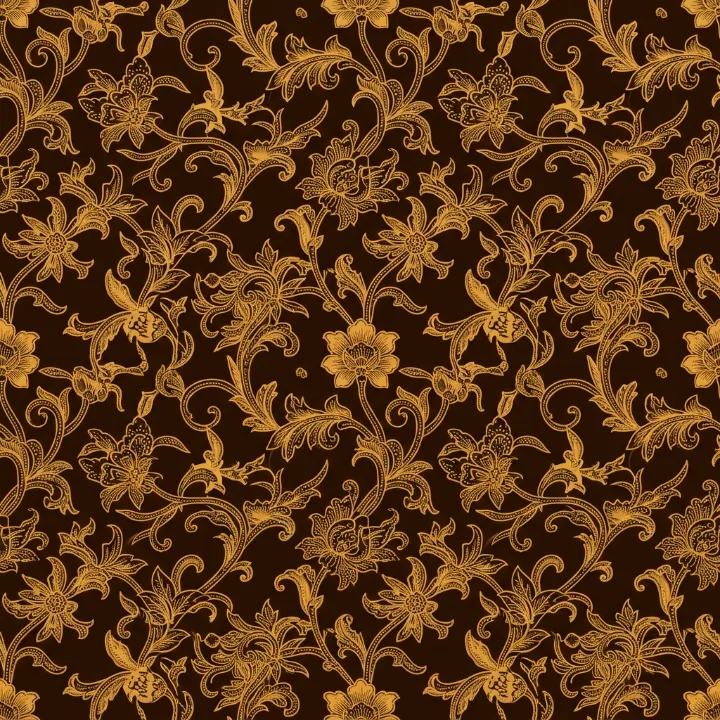
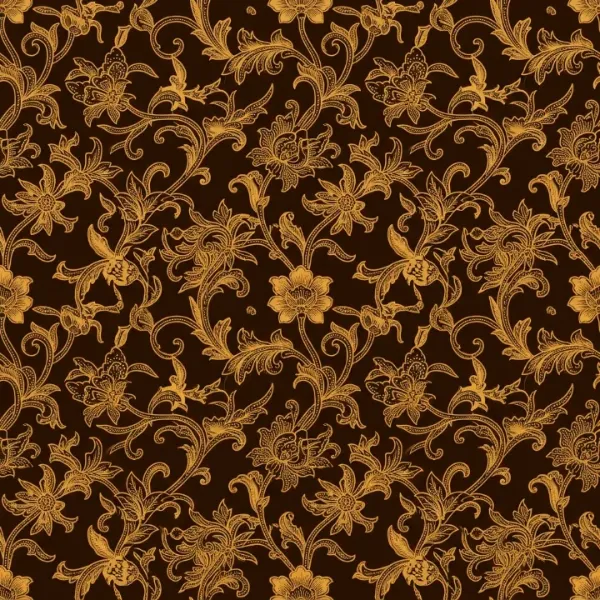
Audit sederhana: tekstur zon krim, potret hangat, borang kertas, imej dimampatkan
- Zon krim 1 diberi tekstur garis Batik krim yang samar
- Potret: tona hangat seragam dengan krim + bingkai gerbang emas berganda
- Borang ucapan dalam bingkai gading, medan bergaris bawah emas, label serif
- Imej dimampatkan (626KB -> 308KB); potret kini WebP

diff --git a/styles.css b/styles.css
@@ -2063,3 +2063,73 @@ body::after {
 .band-footer .footer-meta,
 .band-batik-doa .editorial-label { text-shadow: 0 1px 10px rgba(0, 0, 0, 0.7); }
 .footer-inner { padding-top: 26px; }
+
+/* =====================================================================
+   PENAMBAHBAIKAN AUDIT (IMPAK SEDERHANA)
+   ===================================================================== */
+
+/* 7. Zon krim 1: tekstur garis Batik krim (Aset 5) yang lebih samar daripada zon Ucapan,
+      supaya ruang antara kad tidak terasa kosong tanpa bersaing dengan bingkai gading. */
+.wb-zone-soft {
+  background-image:
+    linear-gradient(180deg, #F7F3EB 0%, rgba(247, 243, 235, 0.8) 10%, rgba(247, 243, 235, 0.76) 50%, rgba(247, 243, 235, 0.8) 90%, #F7F3EB 100%),
+    url('assets/texture-batik-cream.webp');
+}
+
+/* 8. Potret: tona hangat seragam dengan krim + bingkai gerbang emas berganda */
+.couple-portrait-img { filter: sepia(0.2) saturate(0.88) contrast(1.03) brightness(1.01); }
+.couple-mihrab-inner { background: #F3E7D5; }
+.couple-mihrab-inner::after {
+  background:
+    linear-gradient(180deg, rgba(243, 231, 213, 0) 70%, rgba(243, 231, 213, 0.35) 100%),
+    rgba(232, 205, 160, 0.12);
+  mix-blend-mode: multiply;
+}
+.couple-mihrab-arch {
+  border: 1px solid var(--antique-gold);
+  background: linear-gradient(160deg, #FBF5EA 0%, #F3E7D5 100%);
+  box-shadow:
+    0 0 0 4px #F7F3EB,
+    0 0 0 5px rgba(200, 157, 84, 0.65),
+    0 22px 44px rgba(42, 29, 21, 0.18);
+}
+
+/* 9. Borang ucapan bergaya kertas: bingkai gading, medan bergaris bawah emas, label serif */
+.paper-form {
+  position: relative;
+  padding: 28% 11% 24%;   /* label & butang jauh dari ornamen sudut */
+  border: 0;
+}
+.paper-form::before,
+.paper-form::after { display: none; }
+.paper-form .field label {
+  font-family: var(--font-serif);
+  font-size: 0.8rem;
+  font-weight: 700;
+  letter-spacing: 0.14em;
+  text-transform: uppercase;
+  color: var(--gold-deep);
+}
+.paper-form .field input,
+.paper-form .field textarea {
+  font-family: var(--font-serif);
+  font-size: 1.1rem;          /* > 16px: iPhone tidak zoom automatik */
+  font-weight: 500;
+  padding: 10px 4px 8px;
+  border: 0;
+  border-bottom: 1px solid rgba(140, 98, 57, 0.55);
+  border-radius: 0;
+  background: transparent;
+  color: var(--ink-on-cream);
+}
+.paper-form .field textarea { resize: vertical; min-height: 96px; }
+.paper-form .field input::placeholder,
+.paper-form .field textarea::placeholder { color: rgba(69, 56, 46, 0.55); font-style: italic; }
+.paper-form .field input:focus,
+.paper-form .field textarea:focus {
+  border-bottom-color: var(--antique-gold);
+  box-shadow: 0 2px 0 -1px var(--antique-gold);
+  background: rgba(255, 252, 245, 0.45);
+}
+.paper-form .char-counter { font-family: var(--font-serif); font-size: 0.82rem; }
+.paper-form .btn-block { margin-top: 6px; }

diff --git a/index.html b/index.html
@@ -236,7 +236,7 @@
          ZON WHITE BEACH 1 (Mempelai, Majlis, Lokasi)
          Kanvas krim berterusan dengan pemisah lengkung-S bergaris emas + manik (dilukis ikut skrol)
          ========================================================= -->
-    <div class="wb-zone" id="wbZone1">
+    <div class="wb-zone wb-zone-textured wb-zone-soft" id="wbZone1">
       <svg class="wb-curve wb-curve-top" viewBox="0 0 430 72" preserveAspectRatio="none" aria-hidden="true">
         <path class="wb-curve-fill" d="M0 72 L0 40 C 70 10, 150 4, 222 28 S 352 66, 430 24 L430 72 Z" />
         <path class="wb-curve-gold" d="M0 49 C 70 19, 150 13, 222 37 S 352 75, 430 33" />
@@ -274,10 +274,10 @@
               <img
                 id="couplePortraitImg"
                 class="couple-portrait-img"
-                src="assets/couple-portrait.jpg"
+                src="assets/couple-portrait.webp"
                 alt="Alimin Bin Alias dan Erna Hafizah Binti Erpian"
-                width="768"
-                height="1024"
+                width="640"
+                height="853"
                 loading="lazy"
                 decoding="async"
               />
@@ -443,7 +443,7 @@
           Kesudian Tuan/Puan menitipkan ucapan tahniah dan doa restu buat kedua-dua mempelai amatlah kami hargai.
         </p>
 
-        <form id="wish-form" class="editorial-form letterpress-panel gsap-up" novalidate>
+        <form id="wish-form" class="editorial-form frame-ivory-bg paper-form gsap-up" novalidate>
           <div class="field">
             <label for="guest-name">Nama Penuh / Keluarga</label>
             <input id="guest-name" name="name" type="text" placeholder="Contoh: Encik Ahmad sekeluarga" maxlength="80" autocomplete="name" required />
